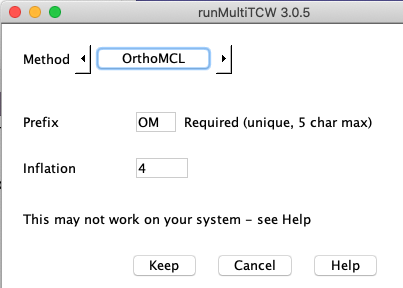
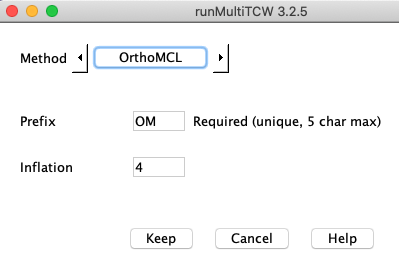
v3.2.5

diff --git a/doc/Trouble.html b/doc/Trouble.html
@@ -24,10 +24,7 @@
 		<td class="top"><ttx>max_allowed_packet</ttx></td>
 		<td>This should be at least 500M if possible (the units are bytes). </td>
 	</tr>	
-	<tr>
-		<td  class="top"><ttx>local_infile</ttx></td>
-		<td>Set to 1. </td>
-	</tr>	
+	
 </table>
 
 <br>For all TCW software, the mySQL variable <ttx>max_allowed_packet</ttx> must be a reasonable
@@ -38,14 +35,17 @@ or, start mysql and type:
 To change this variable, start mysql and type:
 <pre>	set global max_allowed_packet=1073741824;</pre>
 
-For <ttp>runAS</ttp> (pre-v3.1.8 only), the following is necessary:
-<pre>
-	set global local_infile=1
-</pre>
-Testing TCW on MacOS Catalina with MySQL v8.0.17: 
-<br>&nbsp;&nbsp;&nbsp;&nbsp;&nbsp;&nbsp;the above two seem to be the only important ones.
-<br>Testing TCW on Linux x86.64 (Centos 7) with MariaDB v10.4.12:
-<br>&nbsp;&nbsp;&nbsp;&nbsp;&nbsp;&nbsp; may be more sensitive, as discussed in next section.
+Testing on:
+<table class="tabley">
+	<tr>
+		<td class="top">MacOS Catalina with MySQL v8.0.17</td>
+		<td>the above variable seems to be the only important one. </td>
+	</tr>	
+	<tr>
+		<td class="top">Linux x86.64 (Centos 7) with MariaDB v10.4.12</td>
+		<td>two more variable are important for assembly, as discussed in the next section. </td>
+	</tr>
+</table>
 
 <h3>MariaDB</h3>
 Two MySQL settings are especially important for assembly performance (and generally for InnoDB table

diff --git a/doc/Release.html b/doc/Release.html
@@ -12,6 +12,20 @@ Release v3.1.8 converted from using the GO file <tt>go_&lt;date&gt;-termdb-table
 which is used to build the <tt>GOdb</tt>. This ended up to be a pretty big changed,
 hence, this release date is <u>v3.2</u> to indicate the new GO source.
 
+<h4>v3.2.5  2-June-21</h4>
+This release fixed some <ttp>runMultiTCW</ttp> problems when adding clusters.
+<ul>
+<li><ttp>OrthoMCL</ttp>
+<ul>
+<li>This did not work with MariaDB v10.4.12. This has been fixed by editing  the <ttx>orthoLoadBlast</ttx>
+script to set the MySQL <ttx>local_infile<ttx> from within the script.
+<li>TCW recently changed to using ".fa" suffixes for FASTA files, where OrthoMCL requires ".fasta" suffixes.
+This has been fixed by editing the <ttx>orthoBlastParser</ttx> to accept ".fa" suffixes.
+</ul>
+<li>Methods: Non-default parameters were not used if the following order was followed:
+A method was added for a project with non-default parameters, exit <ttp>runMultiTCW</ttp>, restart
+<ttp>runMultiTCW</ttp>, then <ttx>Add New Clusters</ttx>.
+</ul>
 <h4>v3.2.4  16-May-21</h4>
 This release has improvements to <ttp>viewSingleTCW</ttp> for exploring GOs. 
 <ul>

diff --git a/doc/mtcw/UserGuide.html b/doc/mtcw/UserGuide.html
@@ -410,9 +410,8 @@ prefix can only be 5 characters, but make it a meaningful 5 characters.
 	<p><ttp>OrthoMCL</ttp> uses the hit file <ttx>hitsAA.tab</ttx>. It does not guarantee that
 	all sequences in a cluster have a hit with each other.
 	<p><ttp>OrthoMCL</ttp> occasionally fails -- every time this has happened to me, I rerun and it works.
-	<p>NOTE: The last update on GitHub for <ttp>OrthoMCL</ttp> is March 2016, so has not been updated
-	to work with the latest version of MariaDB (and possibly other MySQL versions). 
-
+<p>NOTE: The last update on GitHub for <ttp>OrthoMCL</ttp> is March 2016, so has not been updated
+	to work with the latest version of MariaDB, but it is fixed in the <ttx>Ext</ttx> directory.
 	<td>
 	<a  href="img/methodOL.png"><img src="img/methodOL.png" alt="" style="border: 1px solid black; width: 350px"></a>
 </td>

diff --git a/java/src/html/runMultiTCW/EditMethodPanel.html b/java/src/html/runMultiTCW/EditMethodPanel.html
@@ -80,12 +80,8 @@ with TCW. Its
 clustering is governed by the <b>Inflation</b> parameter; see www.orthomcl.org for more detail.
 Larger inflation values lead to smaller clusters.
 
-<p><b>NOTE</b>: OrthoMCL is an external program run from the /Ext directory. 
-<ul>
-<li>For it to work, Perl and DBD::MySQL must be installed.
-<li>It does not work for 10.4.12-MariaDB (at least, not on my Linux machine); though it does work
-with earlier (e.g. 5.5.64-MariaDB).
-</ul>
+<p><b>NOTE</b>: OrthoMCL (orthomcl.org) is an external program run from the /Ext directory. 
+For it to work, Perl and DBD::MySQL must be installed. 
 
 <h3>User Defined</h3>
 

diff --git a/doc/Install.html b/doc/Install.html
@@ -34,7 +34,6 @@ Required:
 	<td>MySQL</td><td>5.0 or later</td>
 	<td><a href="http://www.mysql.com" class="ext" target="_blank">www.mysql.com</a></td>		
 	<td>MariaDB also works. 
-	<br>MySQL v8 caused problems, which have been fixed in TCW v3.0.3.		
 	</td>
 			
 	<tr>

diff --git a/java/src/cmp/compile/MethodOrthoMCL.java b/java/src/cmp/compile/MethodOrthoMCL.java
@@ -18,7 +18,6 @@ import util.file.FileHelpers;
 import util.methods.ErrorReport;
 import util.methods.TCWprops;
 import util.methods.Out;
-import util.methods.Static;
 
 public class MethodOrthoMCL {
 	private final static String iDELIM = Globals.Methods.inDELIM;
@@ -187,9 +186,7 @@ public class MethodOrthoMCL {
 		Out.PrtSpMsgTime(3, "Finish", t);
 		
 		t = Out.getTime();
-		String inflVal = inflation;
-		inflVal = cmpPanel.getMethodPanel().getSettingsAt(idx).split(":")[1];
-		cmd = binDir.getAbsolutePath() + "/mcl mclInput --abc -I " + inflVal + " -o mclOutput";
+		cmd = binDir.getAbsolutePath() + "/mcl mclInput --abc -I " + inflation + " -o mclOutput";
 		
 		Out.PrtSpMsg(2, "Running mcl");
 		rc = RunCmd.runCommand(cmd.split("\\s+"), tmpDir, false, false, null,0);
@@ -216,26 +213,31 @@ public class MethodOrthoMCL {
 		
 		Out.PrtSpMsg(2, "Groups written to " + groupFile);
 		odb.close();
+	
 		cmpDBC.executeUpdate("drop database " + tempDB);
 		FileHelpers.deleteDir(tmpDir);
 		return true;
 	}catch (Exception e) {ErrorReport.reportError(e, "Error in OrthoMCL"); return false; }
 	}
 	private boolean setParams(int idx, DBConn db, CompilePanel panel) {
-		MethodPanel theMethod = panel.getMethodPanel();
-		String [] settings = theMethod.getSettingsAt(idx).split(iDELIM);
-
-		prefix = theMethod.getMethodPrefixAt(idx);		// Groups should be prefixed with this
-		
-		if (settings.length<2) 	inflation = Globals.Methods.OrthoMCL.INFLATION;
-		else 					inflation = settings[1];					// mcl parameter
-		
 		cmpDBC = db;
 		cmpPanel = panel;
+		
 		blastFile = cmpPanel.getBlastPanel().getBlastFileForMethods(0);
 		if (blastFile == null) return false;
-		String x = inflation.replace(".", "");
-		if (x.length()==1) x += "0";
+		
+		MethodPanel theMethod = cmpPanel.getMethodPanel();
+		
+		prefix = theMethod.getMethodPrefixAt(idx);		// Groups should be prefixed with this
+		
+		String [] settings = theMethod.getSettingsAt(idx).split(iDELIM);
+		if (settings.length<2) 	{
+			Out.PrtError("Incorrect parameters: '" + theMethod.getSettingsAt(idx) + "' - using defaults");
+			inflation = Globals.Methods.OrthoMCL.INFLATION;
+		}
+		else 	inflation = settings[1];					// mcl parameter
+		
+		String x = inflation.replace(".", "_");
 		groupFile = cmpPanel.getCurProjMethodDir() +  groupFile + "." + prefix + "-" + x;
 		
 		Out.PrtSpMsg(1, "Prefix:    " + prefix);
@@ -247,7 +249,7 @@ public class MethodOrthoMCL {
 	private DBConn cmpDBC;			// database connection
 	private CompilePanel cmpPanel;	// get all parameters from this
 	
-	static private String prefix;
-	static private String inflation;
-	static private String blastFile;
+	private String prefix;
+	private String inflation;
+	private String blastFile;
 }

diff --git a/java/src/util/database/DBConn.java b/java/src/util/database/DBConn.java
@@ -729,15 +729,6 @@ public class DBConn
 					Out.PrtSpMsg(1, "Suggest: SET GLOBAL max_allowed_packet=1073741824;");
 			}
 			
-			Out.PrtSpMsg(1, "For some configuration, the following is necessary for runAS:");
-			rs = st.executeQuery("show variables like 'local_infile'");
-			if (rs.next()) {
-				String s = rs.getString(2).toLowerCase();
-				Out.PrtSpMsg(2,"local_infile=" + s);
-				if (s.contentEquals("no") || s.contentEquals("off") || s.contentEquals("0")) // CAS318 add off/0
-					Out.PrtSpMsg(2, "Suggest: SET GLOBAL local_infile = 1;");
-			}
-			
 			Out.PrtSpMsg(1, "For runSingle assembly on MariaDB:");
 			rs = st.executeQuery("show variables like 'innodb_buffer_pool_size'");
 			if (rs.next()) {

diff --git a/java/src/util/database/Globalx.java b/java/src/util/database/Globalx.java
@@ -8,8 +8,8 @@ import java.awt.Font;
 public class Globalx {
 	public static boolean debug = false; // changed in STCWMain or MTCWMain from command line 
 	
-	public static final String strRelDate = "(16-May-21)"; 
-	public static final String strTCWver = "3.2.4"; 
+	public static final String strRelDate = "(2-June-21)"; 
+	public static final String strTCWver = "3.2.5"; 
 	public static final String URL = "http://www.agcol.arizona.edu ";
 	public static final String TCWhead = "TCW v" + strTCWver + " " + strRelDate;
 	public static final String sTCWver = "sTCW v" + strTCWver;

diff --git a/java/src/cmp/compile/panels/MethodClosurePanel.java b/java/src/cmp/compile/panels/MethodClosurePanel.java
@@ -9,6 +9,7 @@ import javax.swing.JPanel;
 import javax.swing.JRadioButton;
 import javax.swing.JTextField;
 
+import util.methods.Out;
 import util.methods.Static;
 import util.ui.ButtonComboBox;
 
@@ -106,7 +107,7 @@ public class MethodClosurePanel extends JPanel {
 	public void setSettings(String settings) {
 		String [] theSettings = settings.split(iDELIM);
 		if (theSettings.length<3) return; // earlier versions
-		
+	
 		txtCovCutoff.setText(theSettings[1]);
 		try {
 			int i = Integer.parseInt(theSettings[2]);

diff --git a/java/src/util/methods/TCWprops.java b/java/src/util/methods/TCWprops.java
@@ -225,7 +225,7 @@ public class TCWprops
 				mProps.setProperty("CLST_method_prefix"+ Integer.toString(i), "");
 				mProps.setProperty("CLST_file"+ Integer.toString(i), "");
 				mProps.setProperty("CLST_comment"+ Integer.toString(i), "");
-				mProps.setProperty("CLST_setting"+ Integer.toString(i), "");
+				mProps.setProperty("CLST_settings"+ Integer.toString(i), ""); // CAS325 missing 's'
 			}
 			break;
 			

diff --git a/java/src/cmp/compile/MethodClosure.java b/java/src/cmp/compile/MethodClosure.java
@@ -81,6 +81,7 @@ public class MethodClosure {
 		Out.PrtSpMsg(1, "Prefix:     " + prefix);
 		Out.PrtSpMsg(1, "Coverage:   " + covCutoff + " (" + covTypes[covMode] + ")");
 		Out.PrtSpMsg(1, "Similarity: " + simCutoff);
+		if (type==1) Out.PrtSpMsg(1, "Hit File:   " + strType[type]);
 		Out.PrtSpMsg(1, "");
 		
 		if (type == 1 && panel.getNumNTdb()<=0) {

diff --git a/java/src/cmp/compile/MethodBBH.java b/java/src/cmp/compile/MethodBBH.java
@@ -379,6 +379,7 @@ public class MethodBBH {
 		Out.PrtSpMsg(1, "Prefix:     " + prefix);
 		Out.PrtSpMsg(1, "Coverage:   " + covCutoff + " (" + covTypes[covMode] + ")");
 		Out.PrtSpMsg(1, "Similarity: " + simCutoff);
+		if (type==1) Out.PrtSpMsg(1, "Hit File:   " + strType[type]);
 		Out.PrtSpMsg(1, "STCWdb:     " + dbs);
 		Out.PrtSpMsg(1, "");
 		
